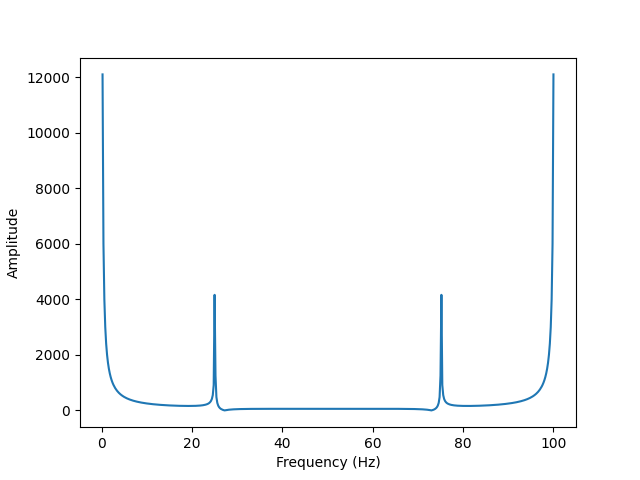
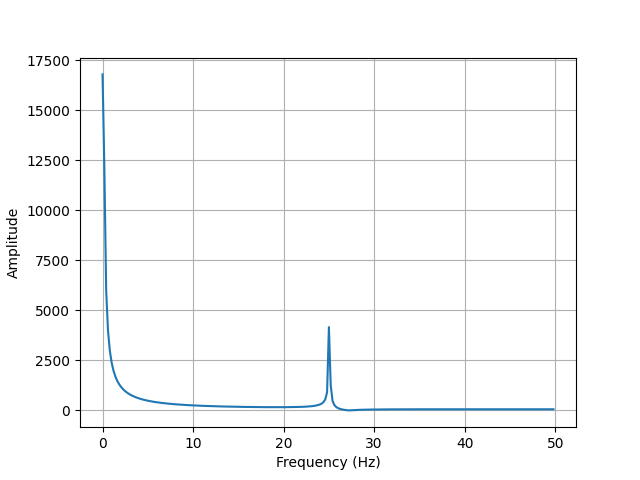
fixes

diff --git a/sem5/CSM/lab1/main.py b/sem5/CSM/lab1/main.py
@@ -50,13 +50,20 @@ def plotDFTModules(
         saveImgPath: str
 ) -> None:
     numSamples = len(modulesDFT)
-    frequencies = []
-    for k in range(1, numSamples):
-        frequencies.append(k * deltaF)
+    # frequencies = []
+    # for k in range(1, numSamples):
+    #     frequencies.append(k * deltaF)
     
-    plt.plot(frequencies, modulesDFT[1:numSamples])
+    # plt.plot(frequencies, modulesDFT[1:numSamples])
+
+    halfModules = modulesDFT[:numSamples//2]
+    frequencies = np.arange(len(halfModules)) * deltaF
+    
+    plt.plot(frequencies, halfModules)
+
     plt.xlabel("Frequency (Hz)")
     plt.ylabel("Amplitude")
+    plt.grid(True)
     plt.savefig(saveImgPath)
     plt.show()
 
